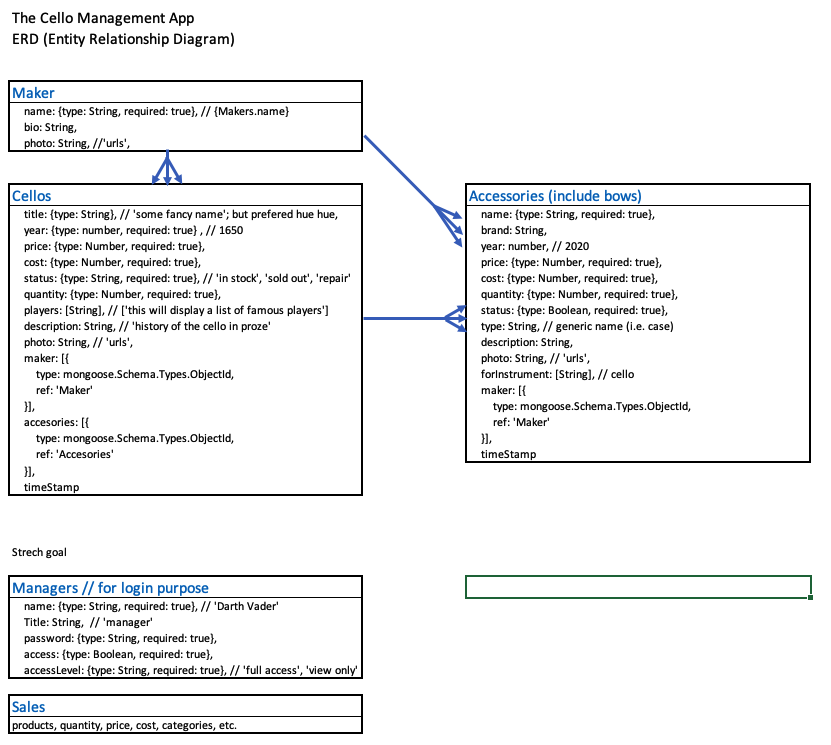
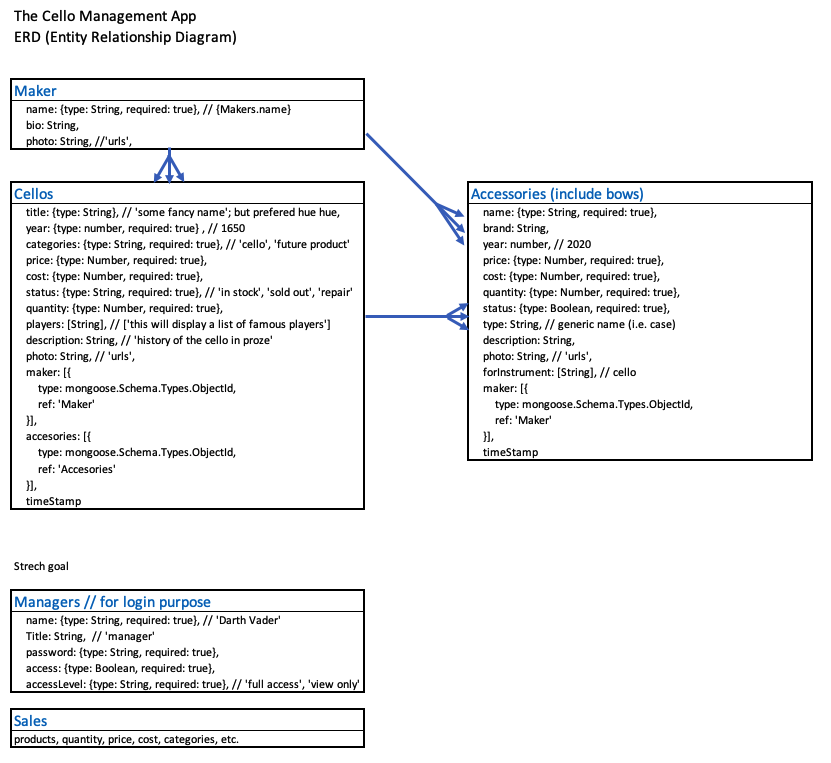
added category property in cellos db in README and ERD

diff --git a/README.md b/README.md
@@ -50,60 +50,61 @@ Enhancements
 Databases:
 
 cellos = ({
-    title: {type: String}, // 'some fancy name'; but prefered hue hue,
-    year: {type: Number, required: true}, // 1650
-    price: {type: Number, required: true},
-    cost: {type: Number, required: true},
-    status: {type: String, required: true}, // 'in stock', 'sold out', 'repair'
-    quantity: {type: Number, required: true},
-    players: [String], // ['this will display a list of famous players']
-    description: String, // 'history of the cello in proze'
-    photo: String, // 'urls',
-    maker: [{
-        type: mongoose.Schema.Types.ObjectId,
-        ref: 'Maker'
-    }],
-    accesories: [{
-        type: mongoose.Schema.Types.ObjectId,
-        ref: 'Accesories'
-    }],
-    timeStamp
+* title: {type: String}, // 'some fancy name'; but prefered hue hue,
+* year: {type: Number, required: true}, // 1650
+* categories: {type: String, required: true}, // 'cello', 'future product'
+* price: {type: Number, required: true},
+* cost: {type: Number, required: true},
+* status: {type: String, required: true}, // 'in stock', 'sold out', 'repair'
+* quantity: {type: Number, required: true},
+* players: [String], // ['this will display a list of famous players']
+* description: String, // 'history of the cello in proze'
+* photo: String, // 'urls',
+* maker: [{
+*   type: mongoose.Schema.Types.ObjectId,
+*   ref: 'Maker'
+* }],
+* accesories: [{
+*   type: mongoose.Schema.Types.ObjectId,
+*   ref: 'Accesories'
+* }],
+* timeStamp
 })
 
 accesories = ({
-    name: {type: String, required: true}, // {Makers.name}
-    brand: String,
-    year: number, // 2020
-    price: {type: Number, required: true},
-    cost: {type: Number, required: true},
-    quantity: {type: Number, required: true},
-    status: {type: Boolean, required: true},
-    type: String, // generic name (i.e. bows, case, etc.)
-    description: String,
-    photo: String, // 'urls', 
-    forInstrument: [String], // 'cello'
-    maker: [{
-        type: mongoose.Schema.Types.ObjectId,
-        ref: 'Maker'
-    }],
-    accesories: [{
-        type: mongoose.Schema.Types.ObjectId,
-        ref: 'Accesories'
-    }],
-    timeStamp
+* name: {type: String, required: true}, // {Makers.name}
+* brand: String,
+* year: number, // 2020
+* price: {type: Number, required: true},
+* cost: {type: Number, required: true},
+* quantity: {type: Number, required: true},
+* status: {type: Boolean, required: true},
+* type: String, // generic name (i.e. bows, case, etc.)
+* description: String,
+* photo: String, // 'urls', 
+* forInstrument: [String], // 'cello'
+* maker: [{
+*   type: mongoose.Schema.Types.ObjectId,
+*   ref: 'Maker'
+* }],
+* accesories: [{
+*   type: mongoose.Schema.Types.ObjectId,
+*   ref: 'Accesories'
+* }],
+* timeStamp
 })
 
 makers = ({
-    name: {type: String, required: true}, // {Makers.name}
-    bio: String,
-    photo: String, //'urls', 
+* name: {type: String, required: true}, // {Makers.name}
+* bio: String,
+* photo: String, //'urls', 
 })
 
 employees = ({
-    name: {type: String, required: true}, // 'Darth Vader' 
-    Title: String,  // 'manager'
-    password: {type: String, required: true},
-    access: {type: Boolean, required: true},
-    accessLevel: {type: String, required: true}, // 'full access', 'view only'
+* name: {type: String, required: true}, // 'Darth Vader' 
+* Title: String,  // 'manager'
+* password: {type: String, required: true},
+* access: {type: Boolean, required: true},
+* accessLevel: {type: String, required: true}, // 'full access', 'view only'
 })
 
